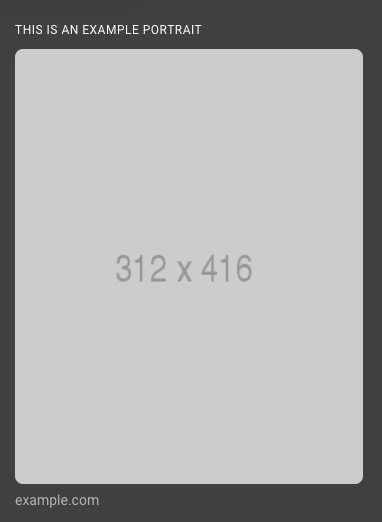
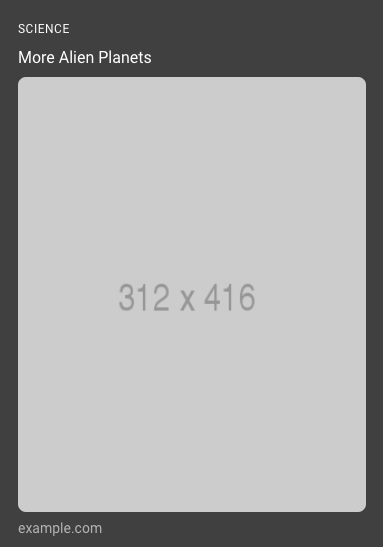
Updates optional and required fields for cards.

diff --git a/extensions/amp-story/amp-story.md b/extensions/amp-story/amp-story.md
@@ -355,7 +355,7 @@ src="https://github.com/ampproject/amphtml/raw/master/extensions/amp-story/img/a
 
 ##### landscape
 
-The `landscape` component can be used for alternative formats of content, like videos. This component requires the following fields: `title`, `category`, `url`, and an `image`.
+The `landscape` component can be used for alternative formats of content, like videos. This component requires the following fields: `title`, `url`, and an `image`. You can also optionally add a `category` field, which will add a subtitle on top of the title.
 
 ```json
 {
@@ -376,12 +376,13 @@ src="https://github.com/ampproject/amphtml/raw/master/extensions/amp-story/img/a
 
 ##### portrait
 
-The `portrait` component can be used to link to other stories. This component requires the following fields: `category`, `url`, and an `image`.
+The `portrait` component can be used to link to other stories. This component requires the following fields: `title`, `url`, and an `image`. You can also optionally add a `category` field, which will add a subtitle on top of the title.
 
 ```json
 {
   "type": "portrait",
   "category": "Science",
+  "title": "New discovery found",
   "url": "http://example.com/article.html",
   "image": "http://placehold.it/312x416"
 }
@@ -875,7 +876,7 @@ The `<amp-story-cta-layer>` component allows the usage of `<a>` and `<button>` e
     width="404" height="678">
   <noscript>
     <img width="404" height="678"
-         src="https://raw.githubusercontent.com/ampproject/amphtml/master/extensions/amp-story/img/layers-cta-layer.png" /> 
+         src="https://raw.githubusercontent.com/ampproject/amphtml/master/extensions/amp-story/img/layers-cta-layer.png" />
   </noscript>
 </amp-img>
 
